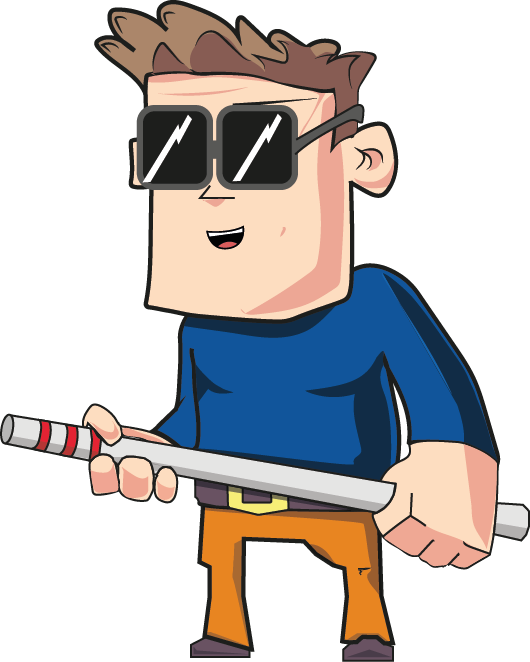
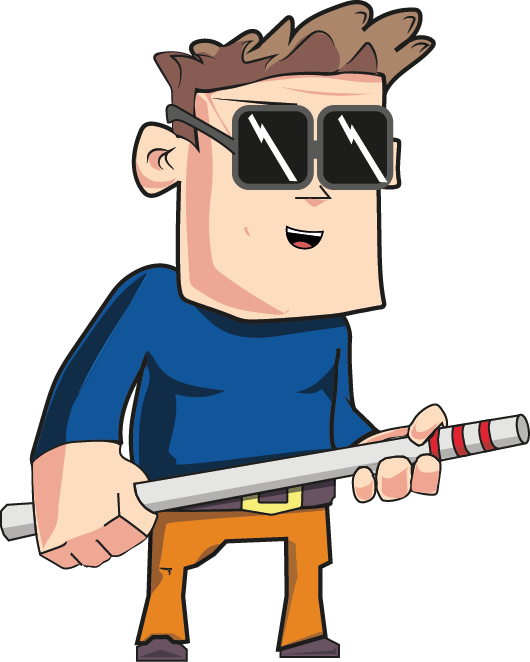
changed abel images and added borders to headers

diff --git a/public/css/style.css b/public/css/style.css
@@ -40,6 +40,20 @@ footer.blockquote-footer {
     margin-bottom: 50px;
 }
 
+.abel.image {
+    padding-right: 20px;
+}
+
+.abel.text {
+    width: 73%;
+}
+
+
+.container.about h2 {
+    border-bottom: 5px solid #E88421;
+    padding-bottom: 10px;
+}
+
 div#hulp a {
     color: #000;
     text-decoration: underline;
